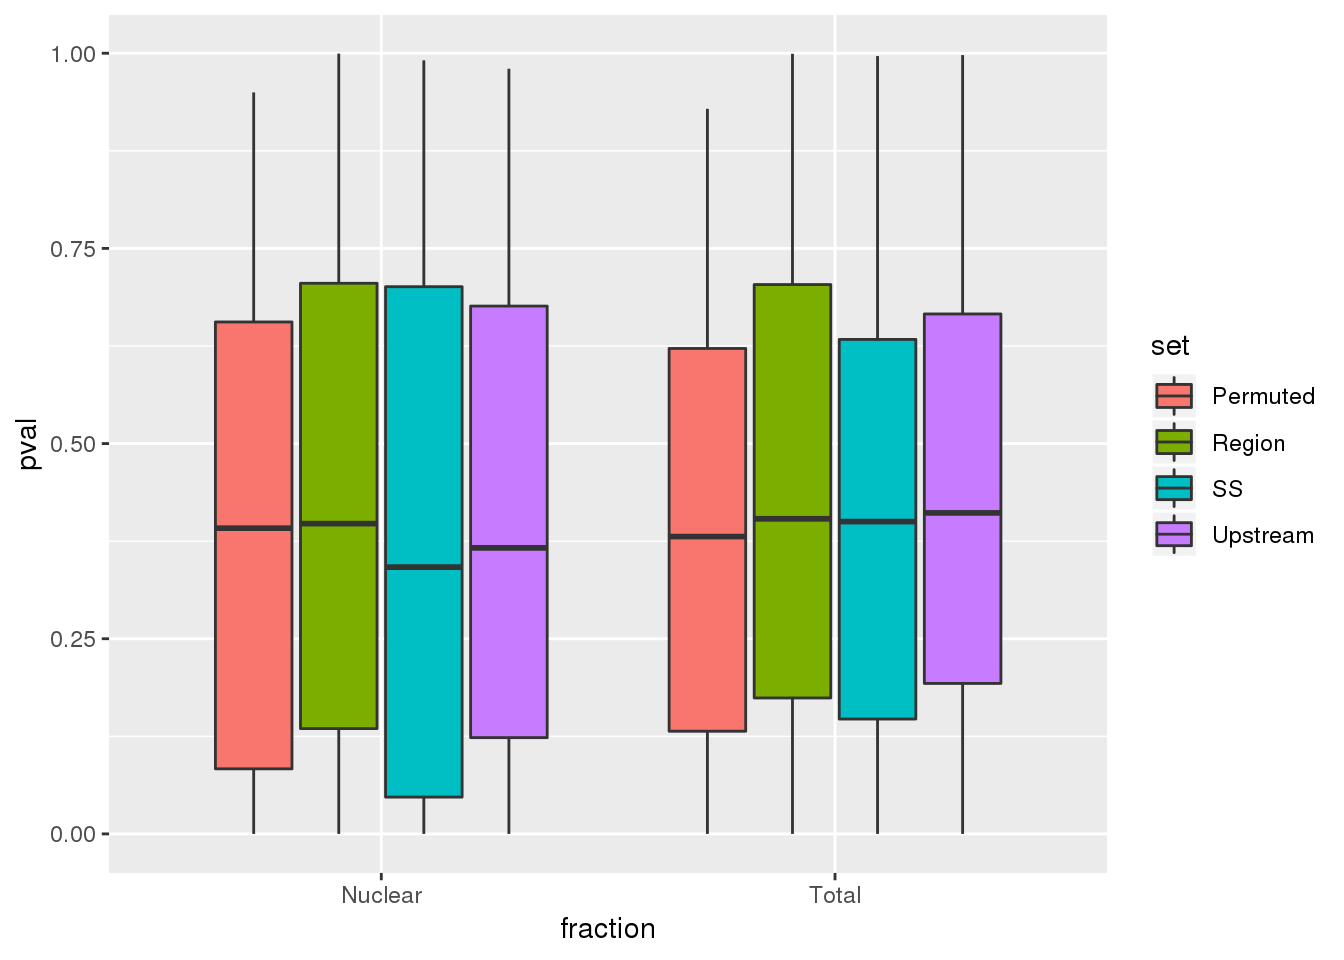
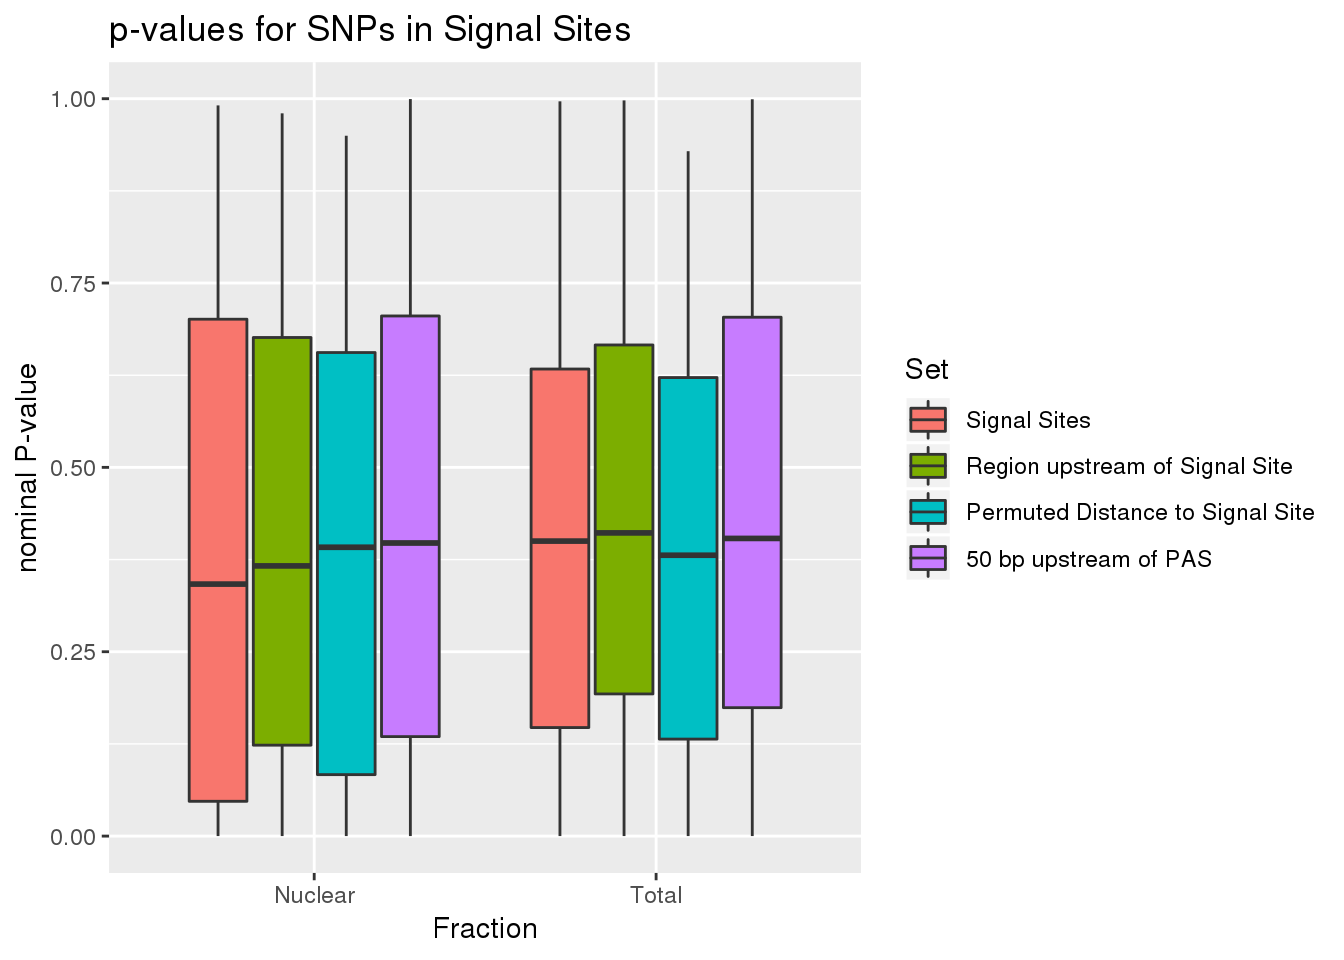
Build site.

diff --git a/docs/snpinSS.html b/docs/snpinSS.html
@@ -434,10 +434,10 @@ This reproducible <a href="http://rmarkdown.rstudio.com">R Markdown</a> analysis
 <div class="panel panel-default">
 <div class="panel-heading">
 <p class="panel-title">
-<a data-toggle="collapse" data-parent="#workflowr-checks" href="#strongRepositoryversionstrongahrefhttpsgithubcombrimittlemanapaQTLtreefffb14b954cbd430220b154d5bf3c204e59ee259targetblankfffb14ba"> <span class="glyphicon glyphicon-ok text-success" aria-hidden="true"></span> <strong>Repository version:</strong> <a href="https://github.com/brimittleman/apaQTL/tree/fffb14b954cbd430220b154d5bf3c204e59ee259" target="_blank">fffb14b</a> </a>
+<a data-toggle="collapse" data-parent="#workflowr-checks" href="#strongRepositoryversionstrongahrefhttpsgithubcombrimittlemanapaQTLtree1aa270e5dfc51988a6e775196f2af2feff470f20targetblank1aa270ea"> <span class="glyphicon glyphicon-ok text-success" aria-hidden="true"></span> <strong>Repository version:</strong> <a href="https://github.com/brimittleman/apaQTL/tree/1aa270e5dfc51988a6e775196f2af2feff470f20" target="_blank">1aa270e</a> </a>
 </p>
 </div>
[2 lines of base64/hex data omitted]
 <div class="panel-body">
 <p>
 Great! You are using Git for version control. Tracking code development and connecting the code version to the results is critical for reproducibility. The version displayed above was the version of the Git repository at the time these results were generated. <br><br> Note that you need to be careful to ensure that all relevant files for the analysis have been committed to Git prior to generating the results (you can use <code>wflow_publish</code> or <code>wflow_git_commit</code>). workflowr only checks the R Markdown file, but you know if there are other scripts or data files that it depends on. Below is the status of the Git repository when the results were generated:
@@ -1058,6 +1058,40 @@ Message
 Rmd
 </td>
 <td>
+<a href="https://github.com/brimittleman/apaQTL/blob/1aa270e5dfc51988a6e775196f2af2feff470f20/analysis/snpinSS.Rmd" target="_blank">1aa270e</a>
+</td>
+<td>
+brimittleman
+</td>
+<td>
+2019-06-25
+</td>
+<td>
+change order and names
+</td>
+</tr>
+<tr>
+<td>
+html
+</td>
+<td>
+<a href="https://rawcdn.githack.com/brimittleman/apaQTL/11a306934a3cc41e2c37a600c8e9032850426c4c/docs/snpinSS.html" target="_blank">11a3069</a>
+</td>
+<td>
+brimittleman
+</td>
+<td>
+2019-06-25
+</td>
+<td>
+Build site.
+</td>
+</tr>
+<tr>
+<td>
+Rmd
+</td>
+<td>
 <a href="https://github.com/brimittleman/apaQTL/blob/fffb14b954cbd430220b154d5bf3c204e59ee259/analysis/snpinSS.Rmd" target="_blank">fffb14b</a>
 </td>
 <td>
@@ -1184,12 +1218,12 @@ add snp in ss analysis
 <pre><code>This is workflowr version 1.4.0
 Run ?workflowr for help getting started</code></pre>
 <pre class="r"><code>library(tidyverse)</code></pre>
-<pre><code>── Attaching packages ──────────────────────────────────────────────────────────────────────────────────────────────────────── tidyverse 1.2.1 ──</code></pre>
+<pre><code>── Attaching packages ───────────────────────────────────────────────────────────────────────────────────────────────────────────────────── tidyverse 1.2.1 ──</code></pre>
 <pre><code>✔ ggplot2 3.1.1       ✔ purrr   0.3.2  
 ✔ tibble  2.1.1       ✔ dplyr   0.8.0.1
 ✔ tidyr   0.8.3       ✔ stringr 1.3.1  
 ✔ readr   1.3.1       ✔ forcats 0.3.0  </code></pre>
-<pre><code>── Conflicts ─────────────────────────────────────────────────────────────────────────────────────────────────────────── tidyverse_conflicts() ──
+<pre><code>── Conflicts ──────────────────────────────────────────────────────────────────────────────────────────────────────────────────────── tidyverse_conflicts() ──
 ✖ dplyr::filter() masks stats::filter()
 ✖ dplyr::lag()    masks stats::lag()</code></pre>
 <pre class="r"><code>library(ggpubr)</code></pre>
@@ -1346,11 +1380,87 @@ Nuclear_other=read.table(&#39;../data/apaQTLNominal_4pc/OtherSS_Nuclear_nomRes.t
 Total_other=read.table(&#39;../data/apaQTLNominal_4pc/OtherSS_Total_nomRes.txt&#39;,header = F, col.names=c(&quot;peakID&quot;, &quot;snp&quot;, &quot;dist&quot;, &quot;pval&quot;, &quot;slope&quot;), stringsAsFactors = F) %&gt;% select(pval,slope) %&gt;% mutate(fraction=&quot;Total&quot;, set=&quot;Upstream&quot;)
 
 
-all_SS_pval=bind_rows(Nuclear_SS,Nuclear_Perm,Total_SS,Total_Perm,Nuclear_Region,Total_Region,Nuclear_other,Total_other)</code></pre>
-<pre class="r"><code>ggplot(all_SS_pval, aes(x=fraction, fill=set, y=pval)) + geom_boxplot()</code></pre>
+all_SS_pval=bind_rows(Nuclear_SS,Nuclear_Perm,Total_SS,Total_Perm,Nuclear_Region,Total_Region,Nuclear_other,Total_other)
+
+all_SS_pval$set &lt;- factor(all_SS_pval$set, levels=c(&quot;SS&quot;, &quot;Upstream&quot;, &quot;Permuted&quot;, &quot;Region&quot;))</code></pre>
+<pre class="r"><code>ggplot(all_SS_pval, aes(x=fraction, fill=set, y=pval)) + geom_boxplot() + labs(x=&quot;Fraction&quot;, title=&quot;p-values for SNPs in Signal Sites&quot;,y=&quot;nominal P-value&quot; ) + scale_fill_discrete(name = &#39;Set&#39;, labels = c(&#39;Signal Sites&#39;, &#39;Region upstream of Signal Site&#39;, &#39;Permuted Distance to Signal Site&#39;,&quot;50 bp upstream of PAS&quot;))</code></pre>
 <p><img src="figure/snpinSS.Rmd/unnamed-chunk-19-1.png" width="672" style="display: block; margin: auto;" /></p>
-<pre class="r"><code>ggplot(all_SS_pval, aes(x=fraction, fill=set, y=abs(slope))) + geom_boxplot() + labs(y=&quot;absolute value effect size&quot;)</code></pre>
+<p>
+<button type="button" class="btn btn-default btn-xs btn-workflowr btn-workflowr-fig" data-toggle="collapse" data-target="#fig-unnamed-chunk-19-1">
+Past versions of unnamed-chunk-19-1.png
+</button>
+</p>
+<div id="fig-unnamed-chunk-19-1" class="collapse">
+<div class="table-responsive">
+<table class="table table-condensed table-hover">
+<thead>
+<tr>
+<th>
+Version
+</th>
+<th>
+Author
+</th>
+<th>
+Date
+</th>
+</tr>
+</thead>
+<tbody>
+<tr>
+<td>
+<a href="https://github.com/brimittleman/apaQTL/blob/11a306934a3cc41e2c37a600c8e9032850426c4c/docs/figure/snpinSS.Rmd/unnamed-chunk-19-1.png" target="_blank">11a3069</a>
+</td>
+<td>
+brimittleman
+</td>
+<td>
+2019-06-25
+</td>
+</tr>
+</tbody>
+</table>
+</div>
+</div>
+<pre class="r"><code>ggplot(all_SS_pval, aes(x=fraction, fill=set, y=abs(slope))) + geom_boxplot()  + labs(x=&quot;Fraction&quot;, title=&quot;p-values for SNPs in Signal Sites&quot;,y=&quot;absolute value effect size&quot; ) + scale_fill_discrete(name = &#39;Set&#39;, labels = c(&#39;Signal Sites&#39;, &#39;Region upstream of Signal Site&#39;, &#39;Permuted Distance to Signal Site&#39;,&quot;50 bp upstream of PAS&quot;))</code></pre>
 <p><img src="figure/snpinSS.Rmd/unnamed-chunk-20-1.png" width="672" style="display: block; margin: auto;" /></p>
+<p>
+<button type="button" class="btn btn-default btn-xs btn-workflowr btn-workflowr-fig" data-toggle="collapse" data-target="#fig-unnamed-chunk-20-1">
+Past versions of unnamed-chunk-20-1.png
+</button>
+</p>
+<div id="fig-unnamed-chunk-20-1" class="collapse">
+<div class="table-responsive">
+<table class="table table-condensed table-hover">
+<thead>
+<tr>
+<th>
+Version
+</th>
+<th>
+Author
+</th>
+<th>
+Date
+</th>
+</tr>
+</thead>
+<tbody>
+<tr>
+<td>
+<a href="https://github.com/brimittleman/apaQTL/blob/11a306934a3cc41e2c37a600c8e9032850426c4c/docs/figure/snpinSS.Rmd/unnamed-chunk-20-1.png" target="_blank">11a3069</a>
+</td>
+<td>
+brimittleman
+</td>
+<td>
+2019-06-25
+</td>
+</tr>
+</tbody>
+</table>
+</div>
+</div>
 <p>Does not look like there is an effect here.</p>
 <br>
 <p>
